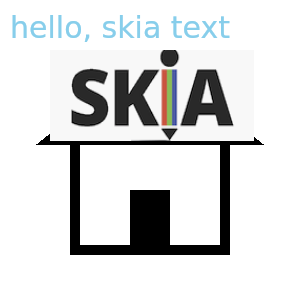
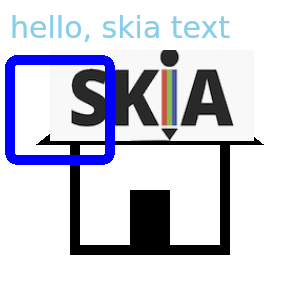
update

Changed region(s): [[0.0, 0.18, 0.39, 0.57]]

diff --git a/src/context.ts b/src/context.ts
@@ -113,7 +113,7 @@ export class Context {
   #fillStyle = "black";
   #strokeStyle = "black";
   #shadowColor = "black";
-  #font = "10px sans-serif";
+  #font = "";
 
   get _unsafePointer() {
     return this.#ptr;
@@ -504,6 +504,18 @@ export class Context {
   }
 
   measureText(text: string) {
+    if (text.length === 0) {
+      return {
+        width: 0,
+        actualBoundingBoxLeft: 0,
+        actualBoundingBoxRight: 0,
+        actualBoundingBoxAscent: 0,
+        actualBoundingBoxDescent: 0,
+        fontBoundingBoxAscent: 0,
+        fontBoundingBoxDescent: 0,
+      };
+    }
+
     if (
       !sk_context_text(
         this.#ptr,
@@ -519,13 +531,13 @@ export class Context {
       throw new Error("failed to measure text");
     }
     return {
-      ascent: METRICS[0],
-      descent: METRICS[1],
-      left: METRICS[2],
-      right: METRICS[3],
       width: METRICS[4],
-      fontAscent: METRICS[5],
-      fontDescent: METRICS[6],
+      actualBoundingBoxLeft: METRICS[2],
+      actualBoundingBoxRight: METRICS[3],
+      actualBoundingBoxAscent: METRICS[0],
+      actualBoundingBoxDescent: METRICS[1],
+      fontBoundingBoxAscent: METRICS[5],
+      fontBoundingBoxDescent: METRICS[6],
     };
   }
 

diff --git a/test.ts b/test.ts
@@ -1,4 +1,4 @@
-import { Canvas, Image } from "./mod.ts";
+import { Canvas, Image, Path2D } from "./mod.ts";
 
 const canvas = new Canvas(300, 300);
 
@@ -44,6 +44,15 @@ ctx.fillStyle = "skyblue";
 ctx.font = "30px DejaVu Sans";
 console.log(ctx.measureText("hello"));
 ctx.fillText("hello, skia text", 10, 10);
+
+const path = new Path2D(
+  "M8 50H92C96.4183 50 100 53.5817 100 58V142C100 146.418 96.4183 150 92 150H8C3.58172 150 0 146.418 0 142V58C0 53.5817 3.58172 50 8 50Z",
+);
+ctx.strokeStyle = "blue";
+ctx.save();
+ctx.translate(10, 10);
+ctx.stroke(path);
+ctx.restore();
 
 canvas.save("./testdata/test.png");
 console.log("done");
